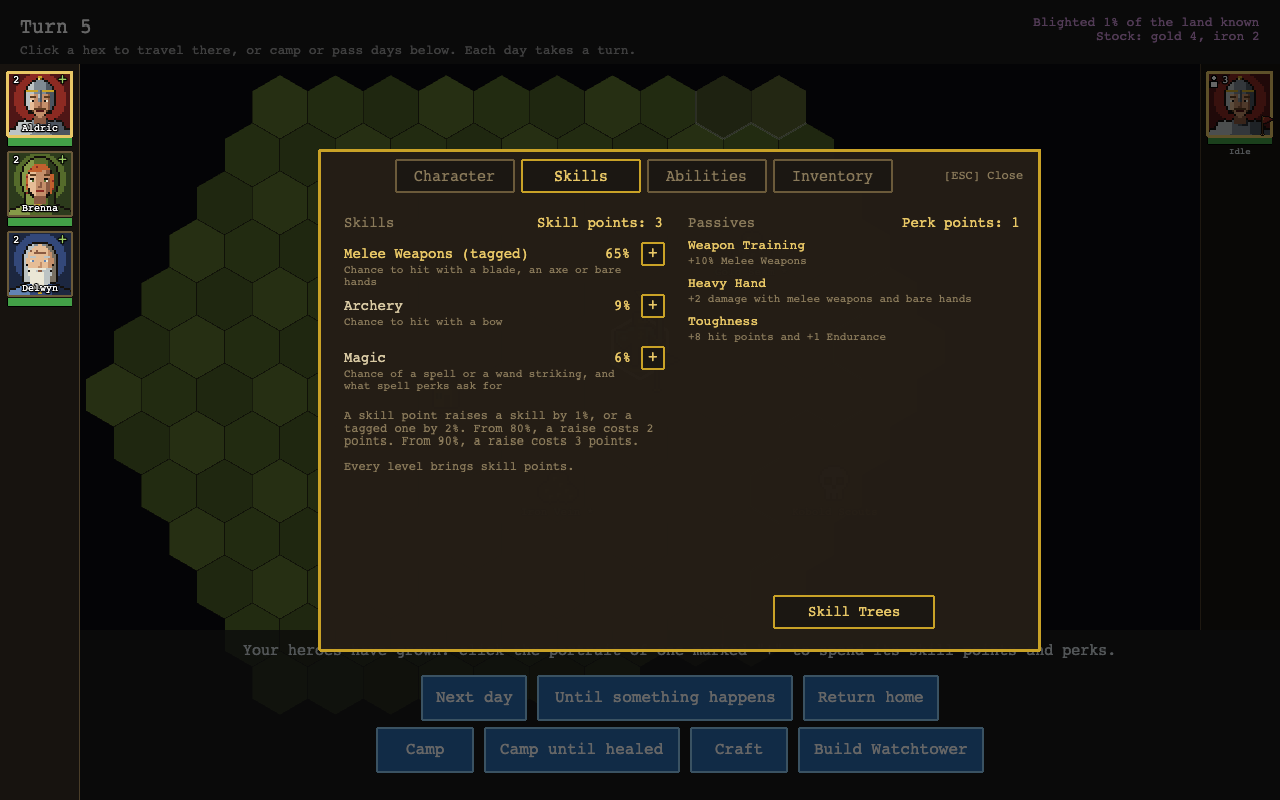
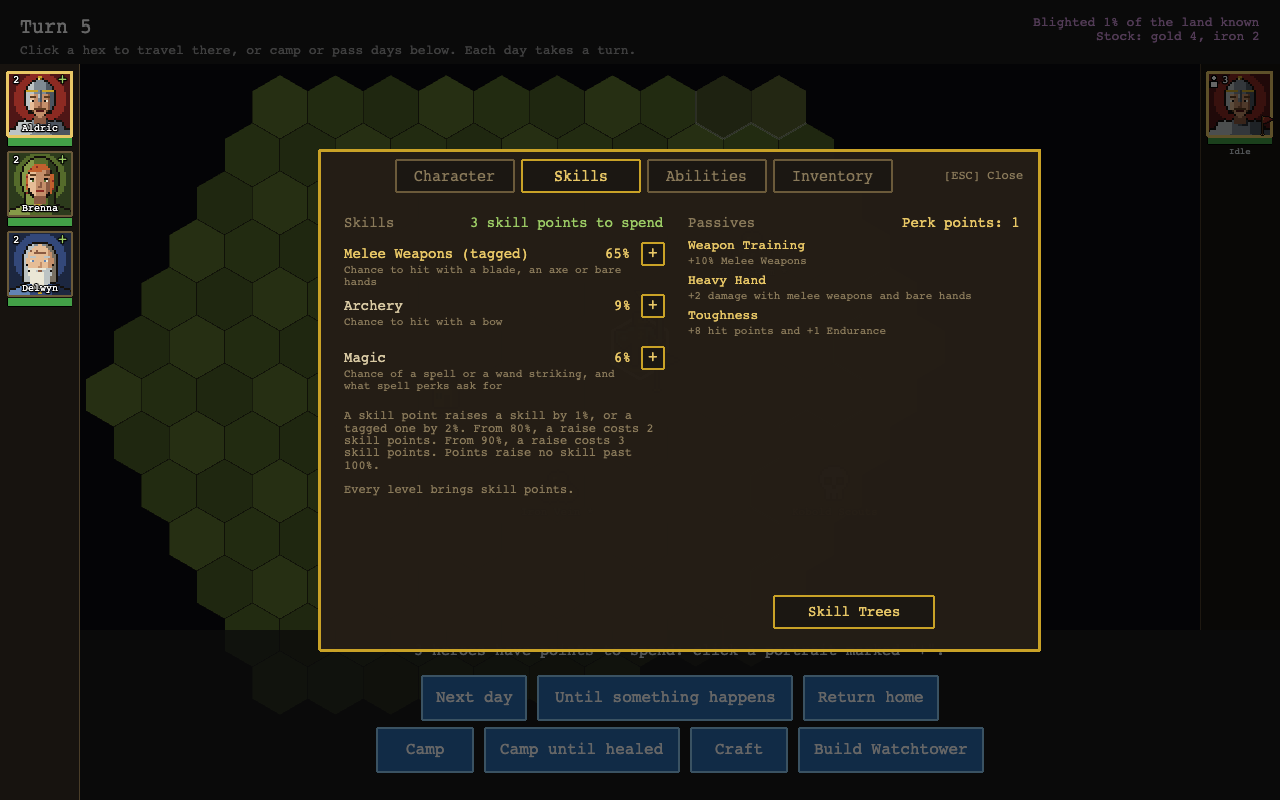
Skill trees verification fixes: manual, screenshots and design note
- Manual: skills stop at 100% by points; the Skills tab's "N skill points to
  spend"; what the portrait's "+" means and the map's prompt; the tree's
  "affordable at level N" hint and saving line; the ✓ told once; the cost
  table after the bullet list; bandits: the Hedge-Mage never heals, Fine gear
  at threats 3 and 5 and plain at 4.
- Retook the four screenshots of the screens that changed (the Skills tab,
  the tree, the map after a victory, the panel after a level).
- skill-trees-node-costs.md §4.4: the knight row's step-30 note (Unbreakable
  at 13).

diff --git a/docs/manual/README.md b/docs/manual/README.md
@@ -72,7 +72,7 @@ There are three skills, each a percentage:
 - **Archery**: your chance to hit with a bow.
 - **Magic**: your chance of landing a spell or a wand shot. Spell nodes also require a minimum Magic.
 
-Skills start low and are set by attributes alone. **Tag** one skill: tagging adds 20% to it and makes each skill point raise it by 2% instead of 1%. You then have **10 skill points** to place. From 80% a raise costs 2 points, and from 90% it costs 3.
+Skills start low and are set by attributes alone. **Tag** one skill: tagging adds 20% to it and makes each skill point raise it by 2% instead of 1%. You then have **10 skill points** to place. From 80% a raise costs 2 points, and from 90% it costs 3. Skill points raise no skill past **100%**.
 
 An untrained skill sits near 10%, and against an armoured foe that becomes the minimum 5% chance to hit. A hero who specialises (tags a skill, puts all 10 points into it and takes its skill perk) starts at around 60%.
 
@@ -173,7 +173,7 @@ When you walk onto a monster lair, the footer offers three actions:
 
 You can also click a hex to walk away.
 
-**Bandits.** Not every lair holds monsters. Bandits hold the **Bandit Camp** (threat 3) and the **Bandit Hideout** (threat 4), and new **Bandit Gangs** appear where the blight breeds lairs of threat 3 or more. Bandits are people, built the way your heroes are, and always led by a Captain with sword, shield and breastplate. At threat 3 a Brute with a battle axe and breastplate fights beside him; at threat 4 a Hedge-Mage takes the Brute's place, casting Magic Arrow, Flame Arrow and Shield and healing; at threat 5 a Bandit Archer takes the Hedge-Mage's place, standing back with a bow and shooting. They have a hero's hit points, the Captain and the Brute a hero's armour, and at threat 5 they carry Fine gear. Further out still, beyond threat 5, four bandits take the field together, a **Crossbowman** among them whose bolts punch through armour, all in Fine steel. Expect a hard fight against a party of your level: bring a heavy weapon, or spells, for the armoured ones, and close in on the Archer and the Hedge-Mage, who wear none.
+**Bandits.** Not every lair holds monsters. Bandits hold the **Bandit Camp** (threat 3) and the **Bandit Hideout** (threat 4), and new **Bandit Gangs** appear where the blight breeds lairs of threat 3 or more. Bandits are people, built the way your heroes are, and always led by a Captain with sword, shield and breastplate. At threat 3 a Brute with a battle axe and breastplate fights beside him; at threat 4 a Hedge-Mage takes the Brute's place, casting Magic Arrow, Flame Arrow and Shield (it never heals); at threat 5 a Bandit Archer takes the Hedge-Mage's place, standing back with a bow and shooting. They have a hero's hit points, the Captain and the Brute a hero's armour, and they carry Fine gear at threats 3 and 5 and plain gear at threat 4. Further out still, beyond threat 5, four bandits take the field together, a **Crossbowman** among them whose bolts punch through armour, all in Fine steel. Expect a hard fight against a party of your level: bring a heavy weapon, or spells, for the armoured ones, and close in on the Archer and the Hedge-Mage, who wear none.
 
 ![Bandits at threat 5: the Captain and the Archer](images/battle-bandits.png)
 
@@ -223,11 +223,11 @@ This tab shows the hero's attributes, their title (their level and their deepest
 
 ![The Skills tab](images/panel-skills.png)
 
-When the hero has skill points to spend, a **+** appears beside each skill. The tab lists the passives the hero has taken, spells aside, and the perk points the hero has ("Perk points: 4"). Press **Skill Trees** (or P) to choose new ones: the view opens on the tree of the hero's deepest path, and its tabs (or 1 to 4) show the others.
+When the hero has skill points to spend, the tab says so in green over the skills ("5 skill points to spend") and a **+** appears beside each skill; the **+** greys out for a skill at 100%, which points raise no further (a node's bonus may still carry it past). The tab lists the passives the hero has taken, spells aside, and the perk points the hero has ("Perk points: 4"). Press **Skill Trees** (or P) to choose new ones: the view opens on the tree of the hero's deepest path, and its tabs (or 1 to 4) show the others.
 
 ![The skill trees](images/panel-perk-tree.png)
 
-Nodes you can take now are framed in gold, and a click takes one for its cost in perk points. The digit on a node is that cost: gold when you can take it now, dim otherwise (a ✓ marks a taken node and a ✕ a locked capstone). The header's "Perk points: N" is what the hero has to spend. A taken node is gold with a ✓. A dim node is closed: point at it to see what it still asks, a level, an attribute, a skill or nodes in its path. A capstone closed by another path being deeper, or by a capstone already held, is drawn in rust with a ✕. In battle the trees can be read but not changed.
+Nodes you can take now are framed in gold, and a click takes one for its cost in perk points. The digit on a node is that cost: gold when you can take it now, dim otherwise (a ✓ marks a taken node, drawn in gold, and a ✕ a locked capstone). The header's "Perk points: N" is what the hero has to spend. Point at an open node you cannot yet afford and the strip says when saving pays for it: "Needs 3 perk points; you have 1 — affordable at level 8". With the pointer on no node, a gold line under the rules names the next thing saving buys: the cheapest open node you cannot yet afford, or else your calling's capstone ("Saving: Pin (3 perk points) is yours at level 11"). A dim node is closed: point at it to see what it still asks, a level, an attribute, a skill or nodes in its path. A capstone closed by another path being deeper, or by a capstone already held, is drawn in rust with a ✕. In battle the trees can be read but not changed.
 
 ### Abilities
 
@@ -474,7 +474,7 @@ Each new level:
 - gives **skill points**: 2 plus a third of the hero's Intelligence
 - gives **1 perk point**, which buys nodes of the skill trees, spells included, at their cost; unspent points are kept
 
-A **+** on a portrait means that hero has something to spend. Spend it from the character panel on the world map, since nothing can be spent in battle.
+A **+** on a portrait means that hero has points to spend: skill points some skill can take, or perk points enough for a node open to them. The world map says so too ("Aldric has points to spend: click the portrait marked "+"."). Spend them from the character panel on the world map, since nothing can be spent in battle.
 
 ![Skill points ready to spend](images/panel-level-up.png)
 
@@ -484,6 +484,9 @@ There are no classes. A hero is defined by their attributes, the skill they tagg
 
 - Every node has **one rank**: perk points buy it once, and nothing is spent again on it.
 - A node sits at a **tier**, and a tier asks a level and a **depth**, the nodes already held in the same path: tier 1 asks level 1 and none, tier 2 level 2 and 1, tier 3 level 6 and 3, and the **capstone** level 12 and 5. A node costs perk points by its tier (the table below). A node may also ask an attribute, a skill (or one of two skills, as Bless asks Melee 30% or Magic 40%) or a node of its own path before it.
+- A hero's **calling** is the path they hold the most nodes in, shown under their name as "Level 9 · Heavy Knight" (two paths level for deepest are both named). Only the calling's capstone may be taken, and a hero may hold only one capstone: taking it closes every other for good.
+- A node asks only to be taken; it is never lost afterwards. There is no respec, so choose with care.
+- **Revive** and **Unbreakable** soften permadeath a little: Revive stands an ally who fell this battle up again, and Unbreakable keeps its holder at 1 hit point the first time damage would fell it, each once per battle. A hero who still falls and is not raised is dead for good.
 
 | Tier | Level asked | Depth asked | Cost |
 | --- | --- | --- | --- |
@@ -493,10 +496,6 @@ There are no classes. A hero is defined by their attributes, the skill they tagg
 | Capstone | 12 | 5 | 4 |
 
 Points you save buy deeper nodes; a hero who stays in one path reaches its tier 3 at level 6 and its capstone at 12, and one who mixes paths holds more nodes but reaches a capstone later.
-
-- A hero's **calling** is the path they hold the most nodes in, shown under their name as "Level 9 · Heavy Knight" (two paths level for deepest are both named). Only the calling's capstone may be taken, and a hero may hold only one capstone: taking it closes every other for good.
-- A node asks only to be taken; it is never lost afterwards. There is no respec, so choose with care.
-- **Revive** and **Unbreakable** soften permadeath a little: Revive stands an ally who fell this battle up again, and Unbreakable keeps its holder at 1 hit point the first time damage would fell it, each once per battle. A hero who still falls and is not raised is dead for good.
 
 A hero born with an attribute of 7 or 8 reaches the nodes that ask it from the start, and the trees' attribute nodes (Gain Strength, Toughness and others) raise one further.
 

diff --git a/docs/designs/skill-trees-node-costs.md b/docs/designs/skill-trees-node-costs.md
@@ -117,7 +117,7 @@ Without the save in step 2, simulated heroes would spend every point on T1s and 
 
 | Plan | New order (head) | Hero | Effect |
 | --- | --- | --- | --- |
-| `knight` | rooted, taunt, pin, heavy_hand, iron_skin, **unbreakable**, guardian, shield_wall, … | Aldric: Rooted 3, Taunt 5, Pin 8, Iron Skin 11, Unbreakable 15 | Unbreakable moves ahead of Guardian. Otherwise Guardian's 3 points at 12 would push the capstone to 18. |
+| `knight` | rooted, taunt, pin, heavy_hand, iron_skin, **unbreakable**, guardian, shield_wall, … | Aldric: Rooted 3, Taunt 5, Pin 8, Iron Skin 11, Unbreakable 15 | Unbreakable moves ahead of Guardian. Otherwise Guardian's 3 points at 12 would push the capstone to 18. *(Amended by step 30, accepted: Aldric takes Unbreakable at 13, Shield Wall at 9 and Iron Skin at 16.)* |
 | `ranger` | aimed_shot, **volley**, far_shot, **deadeye**, hunters_mark, pinning_shot, dodger, … | Brenna: Aimed Shot 3, Volley 6, Far Shot 8, Deadeye 12 | Volley moves ahead of Far Shot. The first T3 stays at 6, and the capstone at 12. |
 | `evoker_healer` | flame_arrow, **fireball**, heal_all, pyromancy, meteor, greater_heal, mending, death_cloud, greater_heal_all, purify | Delwyn: Flame Arrow 3, Fireball 6, Heal All 8, Pyromancy 10, Meteor 14 | Fireball stays at 6, as today. Heal All moves from 4 to 8, and Meteor from 12 to 14. *(Amended by step 30, accepted: Delwyn takes Arcane Blood 4, Heal All 6, Fireball 9, Pyromancy 11 and Meteor 15; Aldric's Unbreakable comes at 13, Shield Wall at 9, Iron Skin at 16.)* |
 | `swordmaster`, `rogue`, `cryomancer`, `bandit_mage`, path plans | unchanged | | Already ordered by depth. Capstone-first plans are unaffected. |
